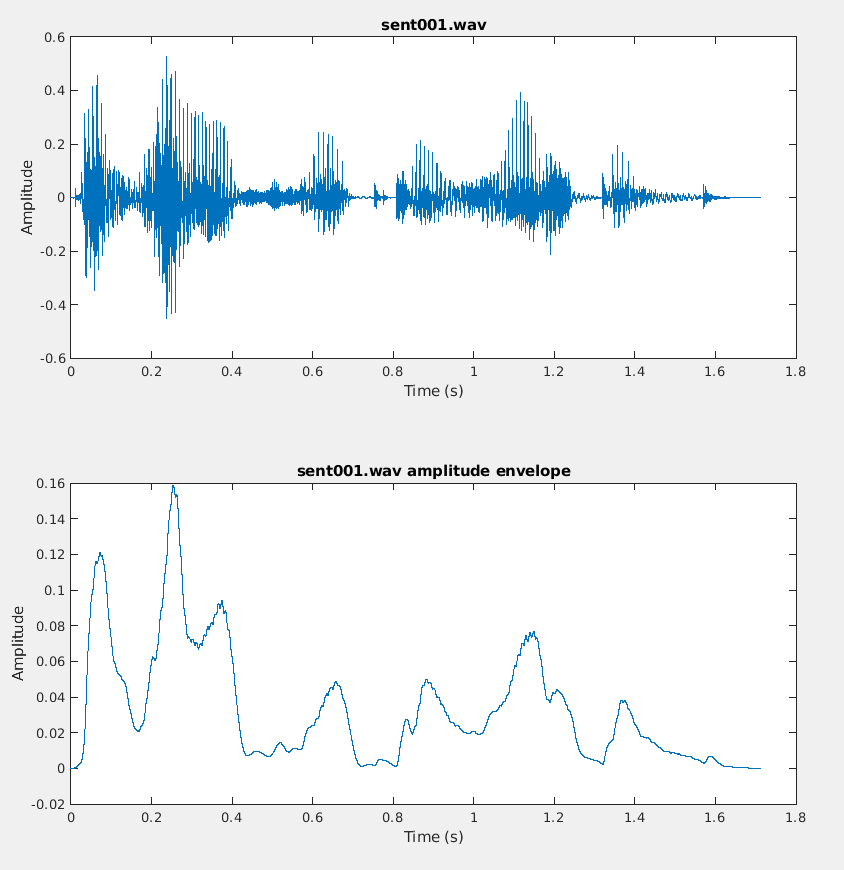
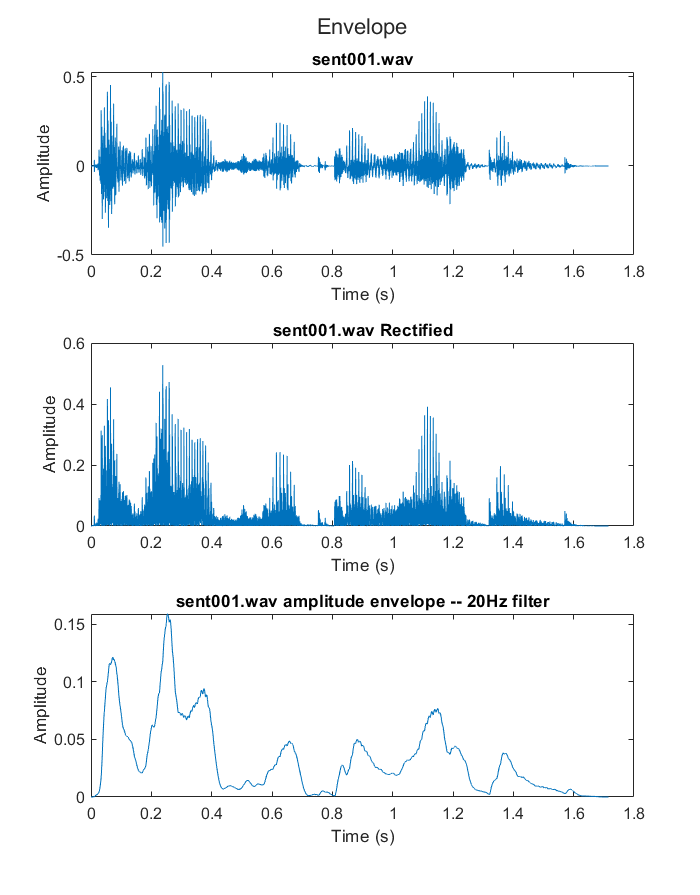
lab2/part1 review + fixes
Added magnitude and phase response.
Added plot of 3 signals (original, rectified, envelope) vs the existing 2 (original, envelope)
Added text descriptions
Added envelopes for 5, 50, and 500 Hz

diff --git a/Lab2/main.tex b/Lab2/main.tex
@@ -61,25 +61,59 @@ And a signal is convolved to filter out high frequencies.
 
 \subsection{Exercise 1}
 
+The fully rectified signal sounded like a duck. There was a weird ringing sound at the end too.\\
+
+The half rectified signal sounded a little weird, but not too abnormal.\\
+
 \lstinputlisting{graph_rectifiers.m}
 
-\includegraphics[width=\textwidth]{exercise1.png}
+\includegraphics[scale=0.7]{exercise1.png}
 
 \subsection{Exercise 2}
 
-After running \textit{sent001.wav} through the 500 Hz low-pass filter, the audio gave a distorted, coming-from-another-room sound:
+After running \textit{sent001.wav} through the 500 Hz low-pass filter, the audio gave a distorted, coming-from-another-room sound.\\
+
+The filtered signal looks smoother than the original signal.\\
 
 \lstinputlisting{low_pass_filter.m}
 
 \includegraphics[width=\textwidth]{exercise2.png}
 
+Here is the magnitude and phase response of the filter.
+As you can see, the filter assigns more weight to lower frequencies.
+But high frequencies are attenuated.\\
+
+\includegraphics[width=\textwidth]{low_pass_filter_response.png}
+
+\pagebreak
 \subsection{Exercise 3}
+
+The high-pass filtered signal sounded quiet but very sharp.
+It was as if someone was whispering while stressing all s.\\
+
+The filtered signal looks noisier than the original signal.\\
+
 
 \lstinputlisting{high_pass_filter.m}
 
 \includegraphics[width=\textwidth]{exercise3.png}
 
+
+Here is the magnitude and phase response of the filter.
+As you can see, the filter assigns more weight to higher frequencies and attenuates lower frequencies.\\
+
+\includegraphics[width=\textwidth]{high_pass_filter.png}
+
 \subsection{Exercise 4}
+
+The lower the frequency cutoff the smoother the envelope and vice versa.\\
+
+We used full-rectification.
+This means that though we used 20 Hz for our filter, we might be cutting off frequencies that are bigger than 10 but less than 20.
+As you know, full-rectification can cause the frequency of some signals to be doubled.
+This would cause frequencies that are originally in the range of [10,20] to be in the range of [20,40] and be attenuated.\\
+
+We couldn't hear the 5, 20, and 50 Hz envelopes but the 500 Hz one sounded like a movie alien.\\
 
 \lstinputlisting{rectifier_envelope.m}
 

diff --git a/Lab2/rectifier_envelope.m b/Lab2/rectifier_envelope.m
@@ -2,31 +2,84 @@
 % BEE235A, Au 2021, Lab 2
 % rectifier_envelope.m - transform sent001.wav to a peak envelope
 
+function rectifier_envelope()
 % load sent001.wav
 [signal, Fs] = audioread('sent001.wav');
 
-% rectify the speech signal
+% full-rectification the speech signal
 rectified_signal = abs(signal);
 
 % pass it through a LPF @ 20 Hz
 [bb, aa] = butter(2, 20/(Fs/2)); % 2nd-order LPF @ 20 Hz
-filtered_signal = filter(bb, aa, rectified_signal);
+filtered20_signal = filter(bb, aa, rectified_signal);
 
 % Calculate time
 L = length(signal);
 Ts = 1 / Fs;
-t = [0:Ts:(L-1)*Ts];
+t = 0:Ts:(L-1)*Ts;
+
+layout = tiledlayout(3,1);
+title(layout, "Envelope");
 
 % Plot sent001.wav raw
-subplot(2,1,1);
+nexttile;
 plot(t, signal);
 title('sent001.wav');
 xlabel('Time (s)');
 ylabel('Amplitude');
 
-% Plot sent001.wav envelope
-subplot(2,1,2);
-plot(t, filtered_signal);
-title('sent001.wav amplitude envelope');
+% Rectified
+nexttile;
+plot(t, rectified_signal);
+title('sent001.wav Rectified');
 xlabel('Time (s)');
 ylabel('Amplitude');
+
+% Plot sent001.wav envelope @ 20HZ
+nexttile;
+plot(t, filtered20_signal);
+title('sent001.wav amplitude envelope -- 20Hz filter');
+xlabel('Time (s)');
+ylabel('Amplitude');
+
+
+% More plots
+
+% pass it through a LPF @ 5, 50, 500 Hz
+[bb, aa] = butter(2, 5/(Fs/2)); % 2nd-order LPF @ 5 Hz
+filtered5_signal = filter(bb, aa, rectified_signal);
+
+[bb, aa] = butter(2, 50/(Fs/2)); % 2nd-order LPF @ 50 Hz
+filtered50_signal = filter(bb, aa, rectified_signal);
+
+[bb, aa] = butter(2, 500/(Fs/2)); % 2nd-order LPF @ 500 Hz
+filtered500_signal = filter(bb, aa, rectified_signal);
+
+figure();
+layout = tiledlayout(3,1);
+title(layout, "Envelope (5Hz, 50 Hz, 500 Hz)");
+
+% Plot sent001.wav envelope @ 5HZ
+nexttile;
+plot(t, filtered5_signal);
+title('sent001.wav amplitude envelope -- 5Hz filter');
+xlabel('Time (s)');
+ylabel('Amplitude');
+
+
+% Plot sent001.wav envelope @ 50HZ
+nexttile;
+plot(t, filtered50_signal);
+title('sent001.wav amplitude envelope -- 50Hz filter');
+xlabel('Time (s)');
+ylabel('Amplitude');
+
+
+% Plot sent001.wav envelope @ 500HZ
+nexttile;
+plot(t, filtered500_signal);
+title('sent001.wav amplitude envelope -- 500Hz filter');
+xlabel('Time (s)');
+ylabel('Amplitude');
+
+end

diff --git a/Lab2/low_pass_filter.m b/Lab2/low_pass_filter.m
@@ -2,13 +2,23 @@
 % BEE235A, Au 2021, Lab 2
 % low_pass_filter.m - graph sent001.wav through a LPF
 
+function low_pass_filter()
+
 [signal, Fs] = audioread('sent001.wav');
 [bb, aa] = butter(2, 500/(Fs/2)); % 2nd-order LPF @ 500 Hz
 filtered_signal = filter(bb, aa, signal);
 
+% Analyze the filter
+fvtool(bb,aa);
+
+% play the sounds
+sound(signal, Fs);
+pause(4);
+sound(filtered_signal, Fs);
+
 L = length(signal);
 Ts = 1 / Fs;
-t = [0:Ts:(L-1)*Ts];
+t = 0:Ts:(L-1)*Ts;
 
 % Slice for graphing for t=0.2 to t=0.3
 t = t(0.2*Fs:0.3*Fs);
@@ -28,3 +38,5 @@ plot(t, filtered_signal);
 title('sent001.wav, low-pass filter @ 500 Hz');
 xlabel('Time');
 ylabel('Amplitude');
+
+end

diff --git a/Lab2/high_pass_filter.m b/Lab2/high_pass_filter.m
@@ -1,16 +1,21 @@
 % Samuel Hunter
 % BEE235A, Au 2021, Lab 2
 % high_pass_filter.m - graph sent001.wav through a HPF
-
+function high_pass_filter()
 [signal, Fs] = audioread('sent001.wav');
 [bb, aa] = butter(2, 4000/(Fs/2), 'high'); % 2nd-order LPF @ 4 kHz
 filtered_signal = filter(bb, aa, signal);
 
+% Analyze the filter
+fvtool(bb,aa);
+
+sound(signal, Fs);
+pause(4);
 sound(filtered_signal, Fs);
 
 L = length(signal);
 Ts = 1 / Fs;
-t = [0:Ts:(L-1)*Ts];
+t = 0:Ts:(L-1)*Ts;
 
 % Graph t=0.2 to t=0.3
 t = t(0.2*Fs:0.3*Fs);
@@ -30,3 +35,4 @@ plot(t, filtered_signal);
 title('sent001.wav, high-pass filter @ 4000 Hz');
 xlabel('Time');
 ylabel('Amplitude');
+end

diff --git a/Lab2/graph_rectifiers.m b/Lab2/graph_rectifiers.m
@@ -9,7 +9,15 @@ half_rectified_signal = max(0, signal);
 
 L = length(signal);
 Ts = 1 / Fs;
-t = [0:Ts:(L-1)*Ts];
+t = 0:Ts:(L-1)*Ts;
+
+% Play the sounds
+sound(signal, Fs);
+pause(4);
+sound(full_rectified_signal, Fs);
+pause(4);
+sound(half_rectified_signal, Fs);
+pause(4);
 
 % Graph t=0.2 to t=0.3
 t = t(0.2*Fs:0.3*Fs);
@@ -37,4 +45,5 @@ plot(t, half_rectified_signal);
 title('sent001.wav, half-rectified');
 xlabel('Time');
 ylabel('Amplitude');
+
 

diff --git a/Lab2/convolution.m b/Lab2/convolution.m
@@ -1,3 +1,7 @@
+% Youssef Beltagy
+% BEE235A, Au 2021, Lab 2
+% convolution.m - Experimenting with Matlab Convolution
+
 h = [1 zeros(1,20) .5 zeros(1,10)]; % impulses make triangles
 x = [0 1:10 ones(1,5)*5 zeros(1,40)]; 
 y = conv(x,h);

diff --git a/Lab2/boxtscript.m b/Lab2/boxtscript.m
@@ -1,4 +1,7 @@
-% Exercise 8
+% Youssef Beltagy
+% BEE235A, Au 2021, Lab 2
+% boxtscript.m - boxplots with different time granularities
+
 t05 = -3:0.5:3;
 boxsig05 = boxt(t05,-1,1);
 

diff --git a/Lab2/exercise6.m b/Lab2/exercise6.m
@@ -1,4 +1,7 @@
-% Exercise 6
+% Youssef Beltagy
+% BEE235A, Au 2021, Lab 2
+% exercise6.m - Zoom into convolved signal
+
 load fall
 
 fall = fall'; % convert fall into a row vector

diff --git a/Lab2/exercise5.m b/Lab2/exercise5.m
@@ -1,4 +1,7 @@
-% Exercise 5
+% Youssef Beltagy
+% BEE235A, Au 2021, Lab 2
+% exercise5.m - Convolving fall
+
 load fall
 
 fall = fall'; % convert fall into a row vector

diff --git a/Lab2/exercise10.m b/Lab2/exercise10.m
@@ -1,3 +1,6 @@
+% Youssef Beltagy
+% BEE235A, Au 2021, Lab 2
+% exercise10.m - Convoluting two box plots
 
 % Time Signal Parameters
 del = 0.001;

diff --git a/Lab2/exercise7.m b/Lab2/exercise7.m
@@ -1,3 +1,7 @@
+% Youssef Beltagy
+% BEE235A, Au 2021, Lab 2
+% exercise7.m - Generating a Box
+
 t=-10:0.1:10; 
 boxsig = boxt(t,-3,3); 
 
